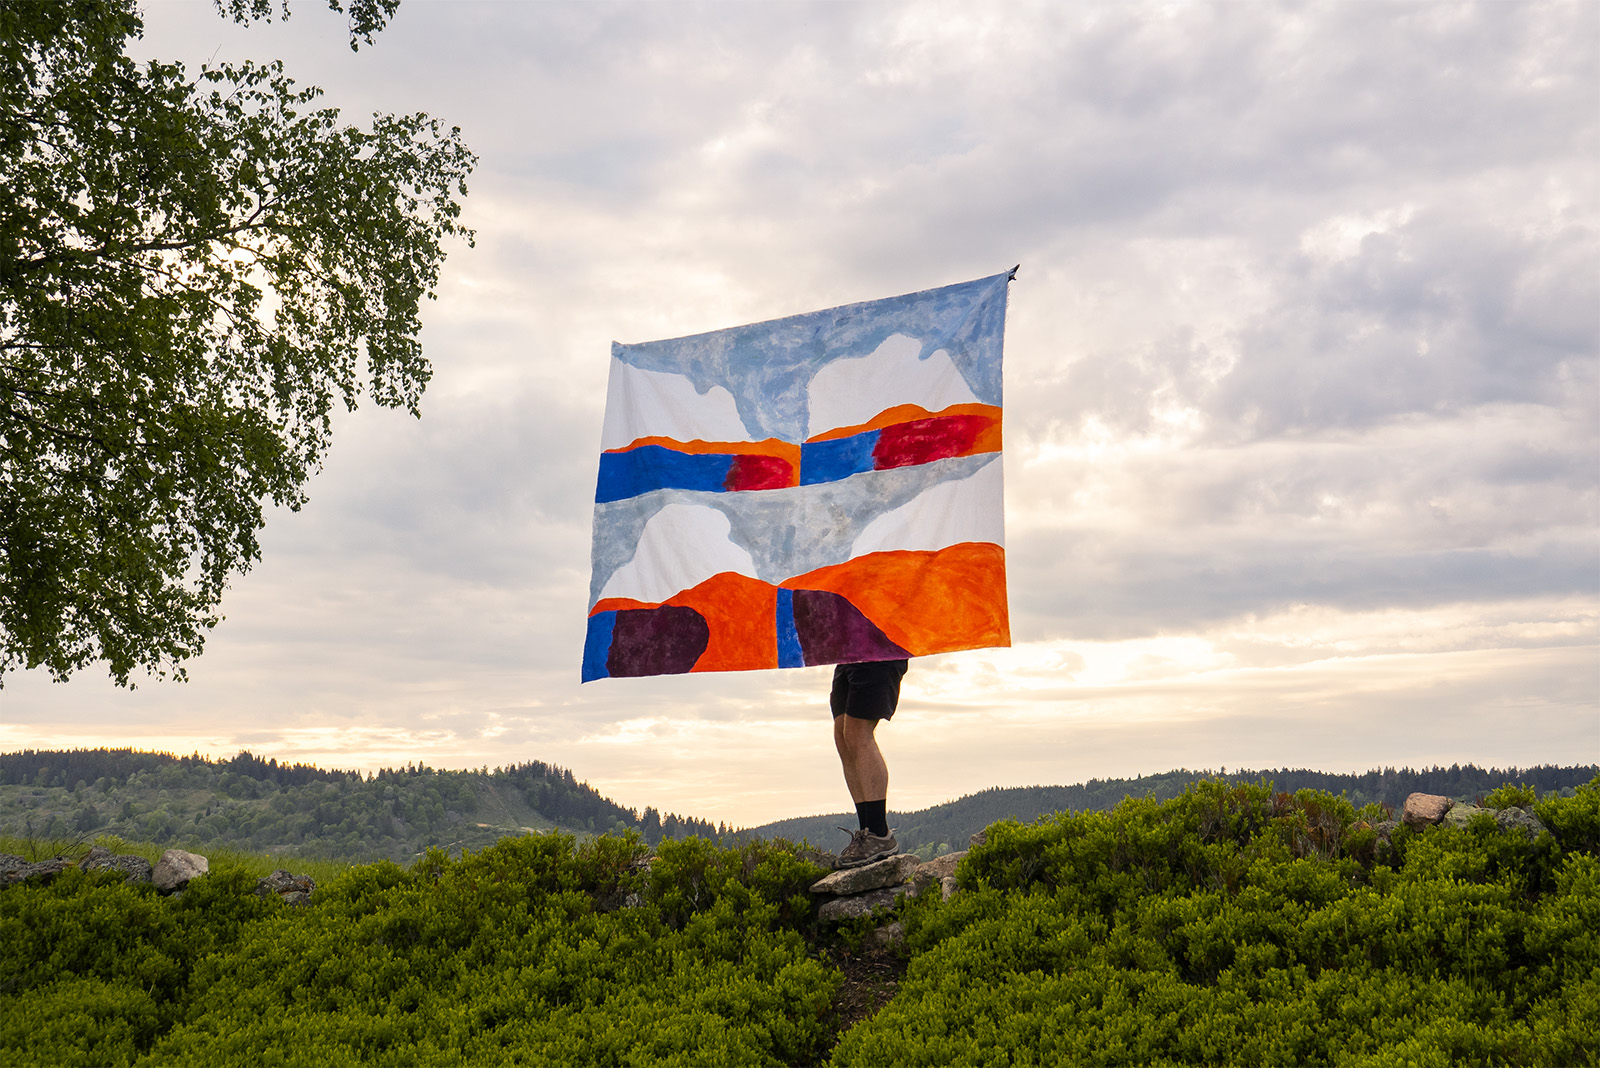
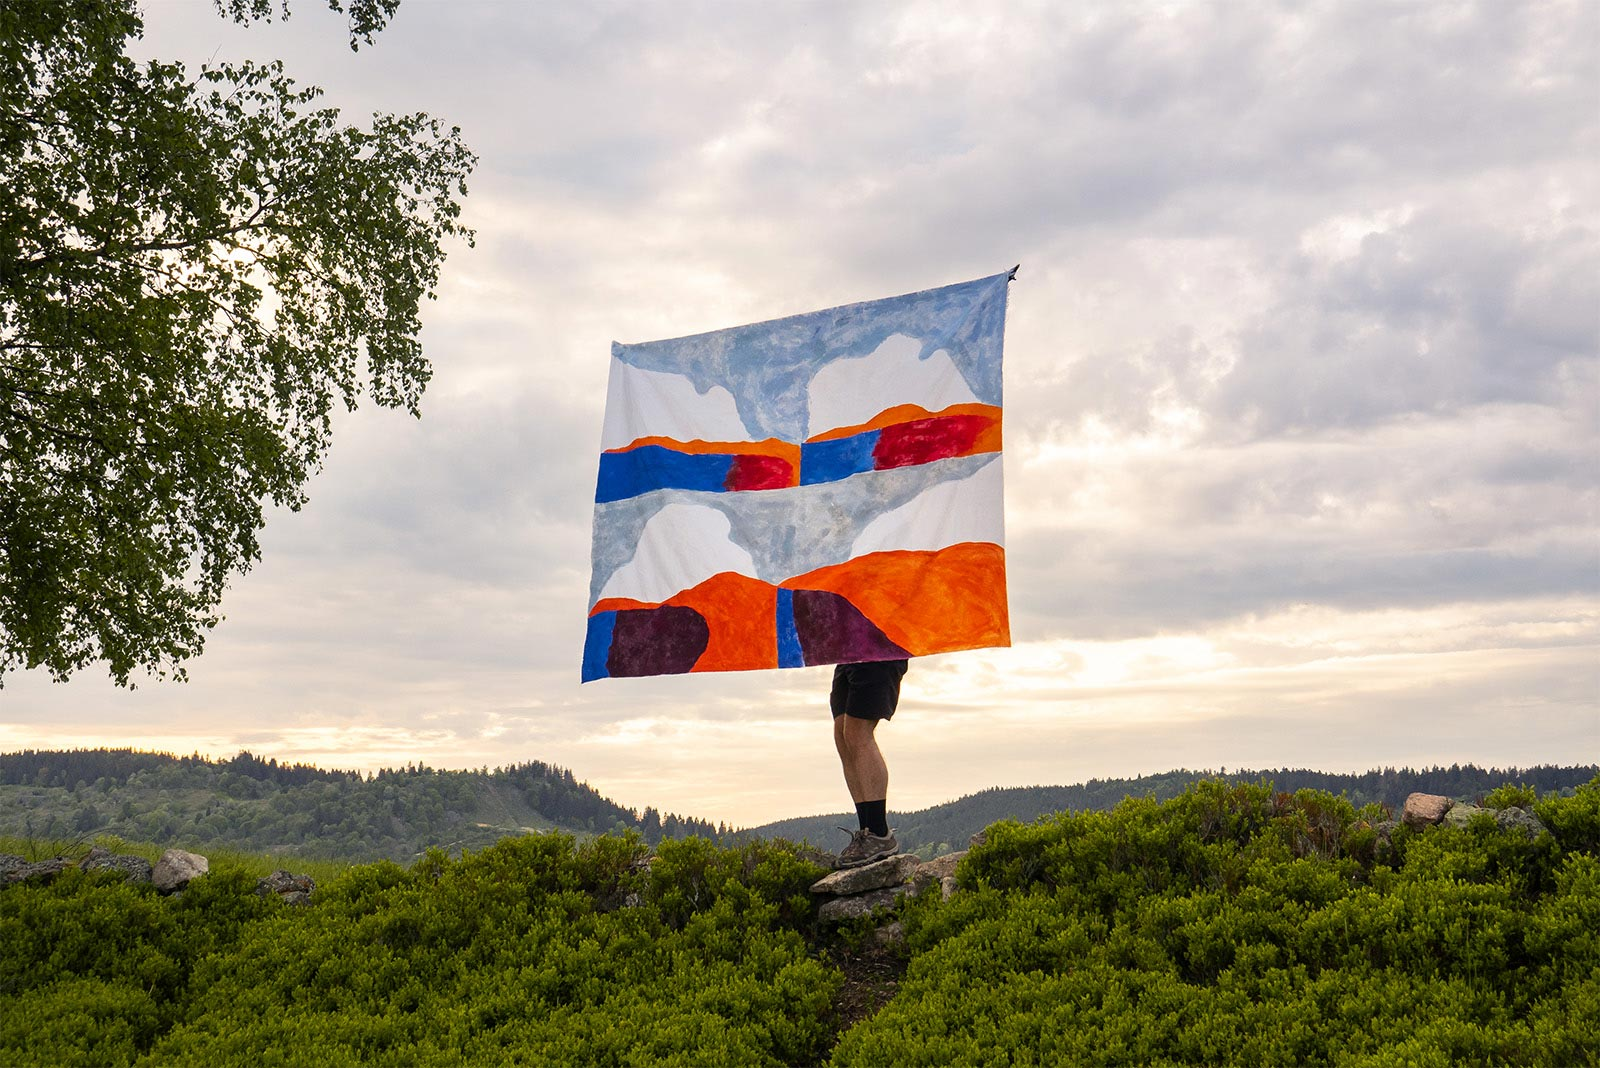
images reduction

diff --git a/_posts/accueil/2021-01-15-Workshop.md b/_posts/accueil/2021-01-15-Workshop.md
@@ -6,9 +6,9 @@ category: accueil
 year: 2021
 color: blank
 images:
-- "/assets/WS Cadran/WP_cadran.jpg"
-- "/assets/WS Cadran/0.jpg"
-- "/assets/WS Cadran/WP_cadran-2.jpg"
+- "/assets/WS Cadran/WP_cadran-red.jpg"
+- "/assets/WS Cadran/0-red.jpg"
+- "/assets/WS Cadran/WP_cadran-2-red.jpg"
 ---
 
 ⸺ Calendrier Solaire découpé, peint, cousu & fabriqué en octobre 2021, éclairé par le feu des projecteurs dans la salle presque sombre du troisième étage.

diff --git a/_posts/accueil/2021-06-01-Mémoire.md b/_posts/accueil/2021-06-01-Mémoire.md
@@ -4,8 +4,8 @@ title: J'ai appris que le père de Grock était horloger
 category: accueil
 year: 2020 - 2021
 images:
-  - "/assets/Memoire/couv-1_Page_1.jpg"
-  - "/assets/Memoire/couv-1_Page_2.jpg"
+  - "/assets/Memoire/couv-1_Page_1-red.jpg"
+  - "/assets/Memoire/couv-1_Page_2-red.jpg"
 ---
 
 ⸺ _J'ai appris que le père de Grock était horloger_ ⸺

diff --git a/_posts/accueil/2021-07-10-Copi-Cabaret-Tour.md b/_posts/accueil/2021-07-10-Copi-Cabaret-Tour.md
@@ -24,7 +24,7 @@ images:
 - "/assets/Copi/Pile 2-red.jpg"
 - "/assets/Copi/Pile 3-red.jpg"
 - "/assets/Copi/Pile 4-red.jpg"
-- "/assets/Copi/Pile 5-red.jpg"
+- "/assets/Copi/Pile 5-rered.jpg"
 ---
 
 ⸺ Costumes, scénographie et accessoires avec Marius Astruc et Lucie Duranteau pour la pièce _Copi Cabaret Tour_, Mise en scène de Garance Robert de Massy
